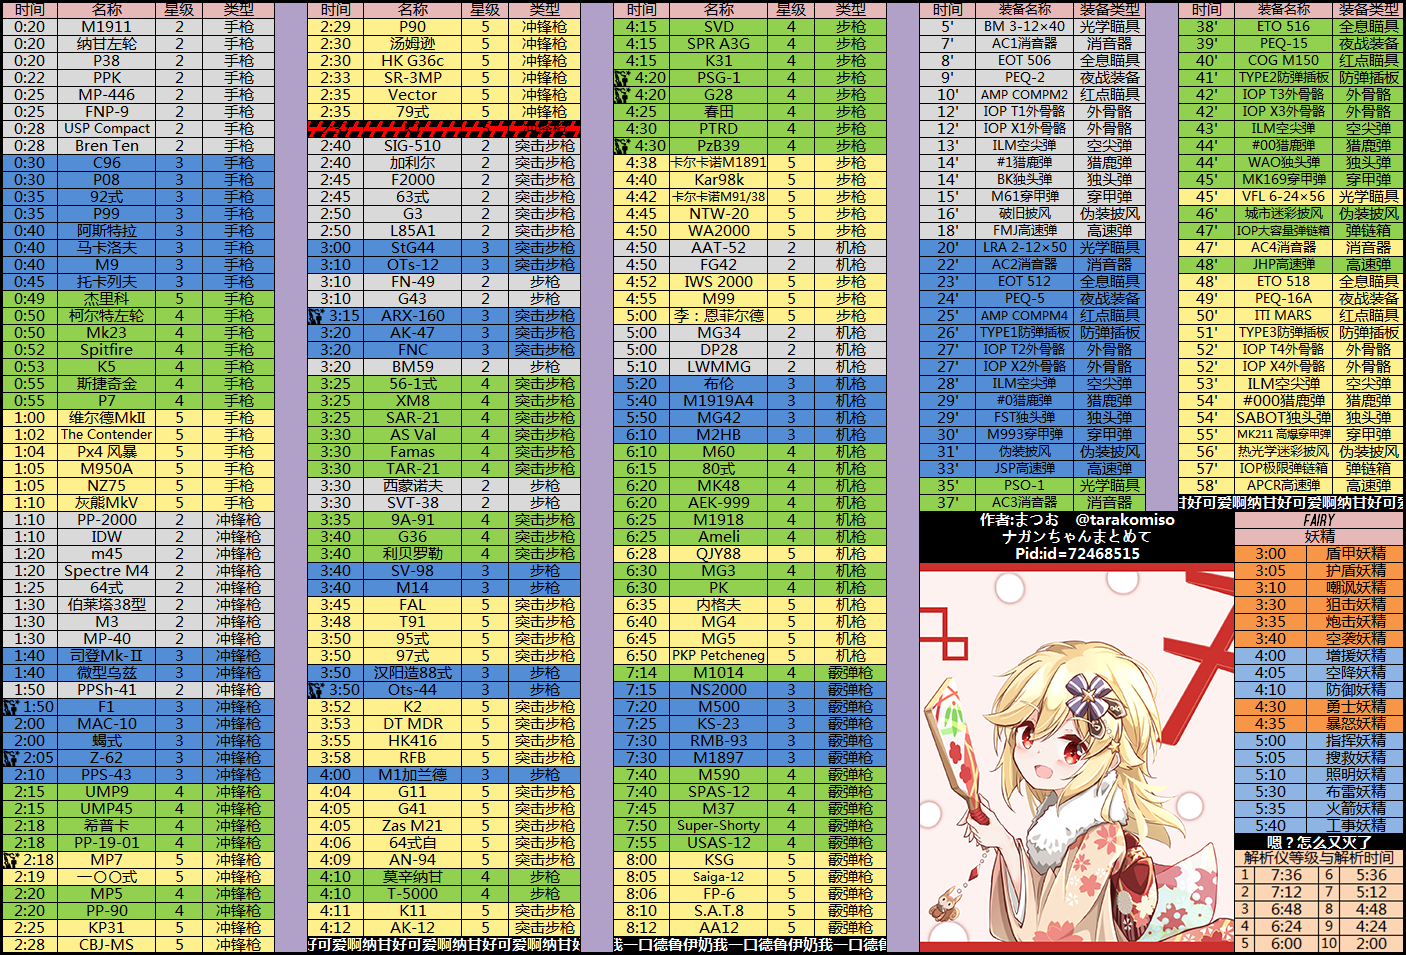
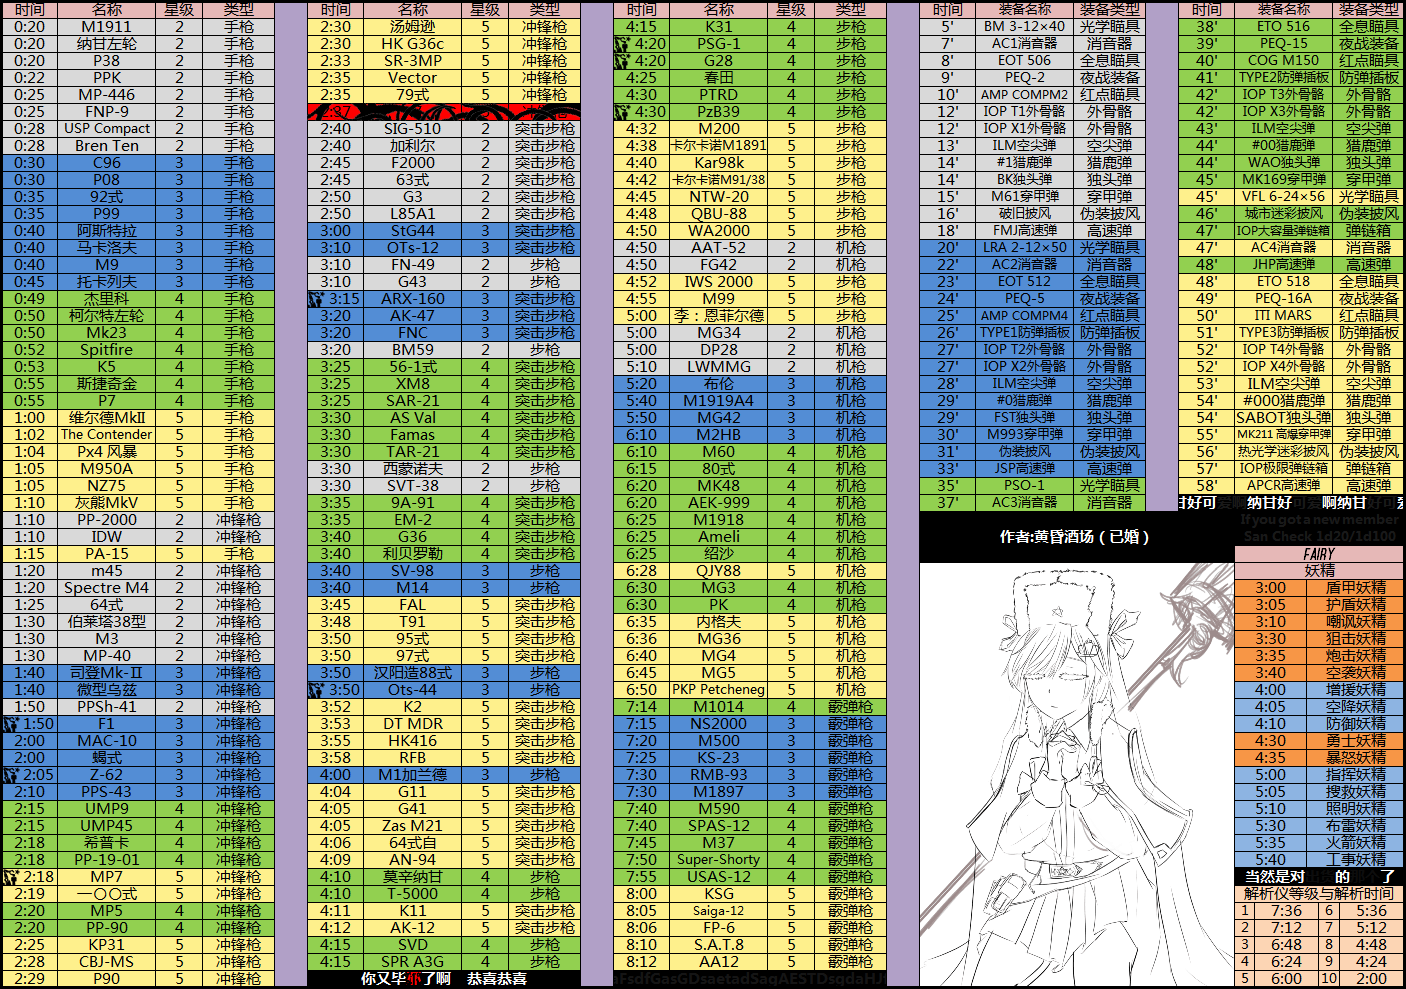
updt data

diff --git a/js/Stat_main.js b/js/Stat_main.js
@@ -41,17 +41,18 @@ var data_map = {
   m02: [2, 5, true, 5]
 }
 var data_116true = [[4, 'AS Val', 1], [4, 'M1918', 1], [4, 'Mk46', 1],
-  [3, 'M9', 1], [3, 'P08', 3], [3, 'Type 92', 2],
-  [3, 'OTs-12', 3], [3, 'StG44', 3],
-  [3, 'MAC-10', 1], [3, 'PPS-43', 1], [3, 'Sten MkII', 3],
-  [3, 'M1 Garand', 5], [3, 'SV-98', 5],
+  [3, 'M9', 1], [3, 'P08', 5], [3, 'Type 92', 3], [3, 'Tokarev', 1],
+  [3, 'OTs-12', 4], [3, 'StG44', 4],
+  [3, 'MAC-10', 1], [3, 'PPS-43', 2], [3, 'Sten MkII', 3],
+  [3, 'M1 Garand', 6], [3, 'SV-98', 6],
   [3, 'Bren', 5], [3, 'M1919A4', 3]]
-var data_104e5true = [[4, 'Mk23', 1], [4, 'PP-90', 1], [4, 'XM3', 5],
-  [3, 'Astra Revolver', 2], [3, 'C96', 5], [3, 'Makarov', 3],
+var data_104e5true = [[5, 'SR-3MP', 1],
+  [4, 'Mk23', 1], [4, 'PP-90', 1], [4, 'XM3', 6],
+  [3, 'Astra Revolver', 3], [3, 'C96', 7], [3, 'Makarov', 4],
   [3, 'AK-47', 2], [3, 'FNC', 3],
   [3, 'MAC-10', 1],
   [3, 'M14', 1], [3, 'Micro UZI', 4], [3, 'Skorpion', 1],
-  [3, 'M2HB', 2], [3, 'MG42', 2]]
+  [3, 'M2HB', 4], [3, 'MG42', 2]]
 var data_104e7true = [[4, 'AS Val', 1],
   [3, 'AK-47', 4], [3, 'Astra Revolver', 1], [3, 'C96', 2], [3, 'FNC', 5], [3, 'M14', 6], [3, 'M9', 1], [3, 'MAC-10', 3], [3, 'Makarov', 4], [3, 'Micro UZI', 4], [3, 'Skorpion', 4],
   [3, 'M2HB', 7], [3, 'MG42', 2]]
@@ -72,8 +73,8 @@ get_card('card_115_2', data_map.m115)
 get_card('card_104e5', data_map.m104e5)
 get_card('card_104e7', data_map.m104e7)
 get_card('card_02', data_map.m02)
-fill_table('stat_116true', true, 'table_116true', data_116true, 176)
+fill_table('stat_116true', true, 'table_116true', data_116true, 216)
 fill_table('stat_115true', true, 'table_115true', data_115true, 50)
 fill_table('stat_115false', false, 'table_115false', data_115false, 265)
-fill_table('stat_104e5true', true, 'table_104e5true', data_104e5true, 150)
+fill_table('stat_104e5true', true, 'table_104e5true', data_104e5true, 180)
 fill_table('stat_104e7true', true, 'table_104e7true', data_104e7true, 185)

diff --git a/pages/GFT_Stat.html b/pages/GFT_Stat.html
@@ -250,7 +250,7 @@
                                                     <tbody id="table_104e5true"></tbody>
                                                 </table>
                                                 <h5>Update: 2019.04.28</h5>
-                                                <h5>Supporter: AsLegend</h5>
+                                                <h5>Supporter: AsLegend / 命运の乐章</h5>
                                             </div>
                                             <div class="tab-pane fade" id="104e7true">
                                                 <table class="table table_mid table-bordered table-hover">
